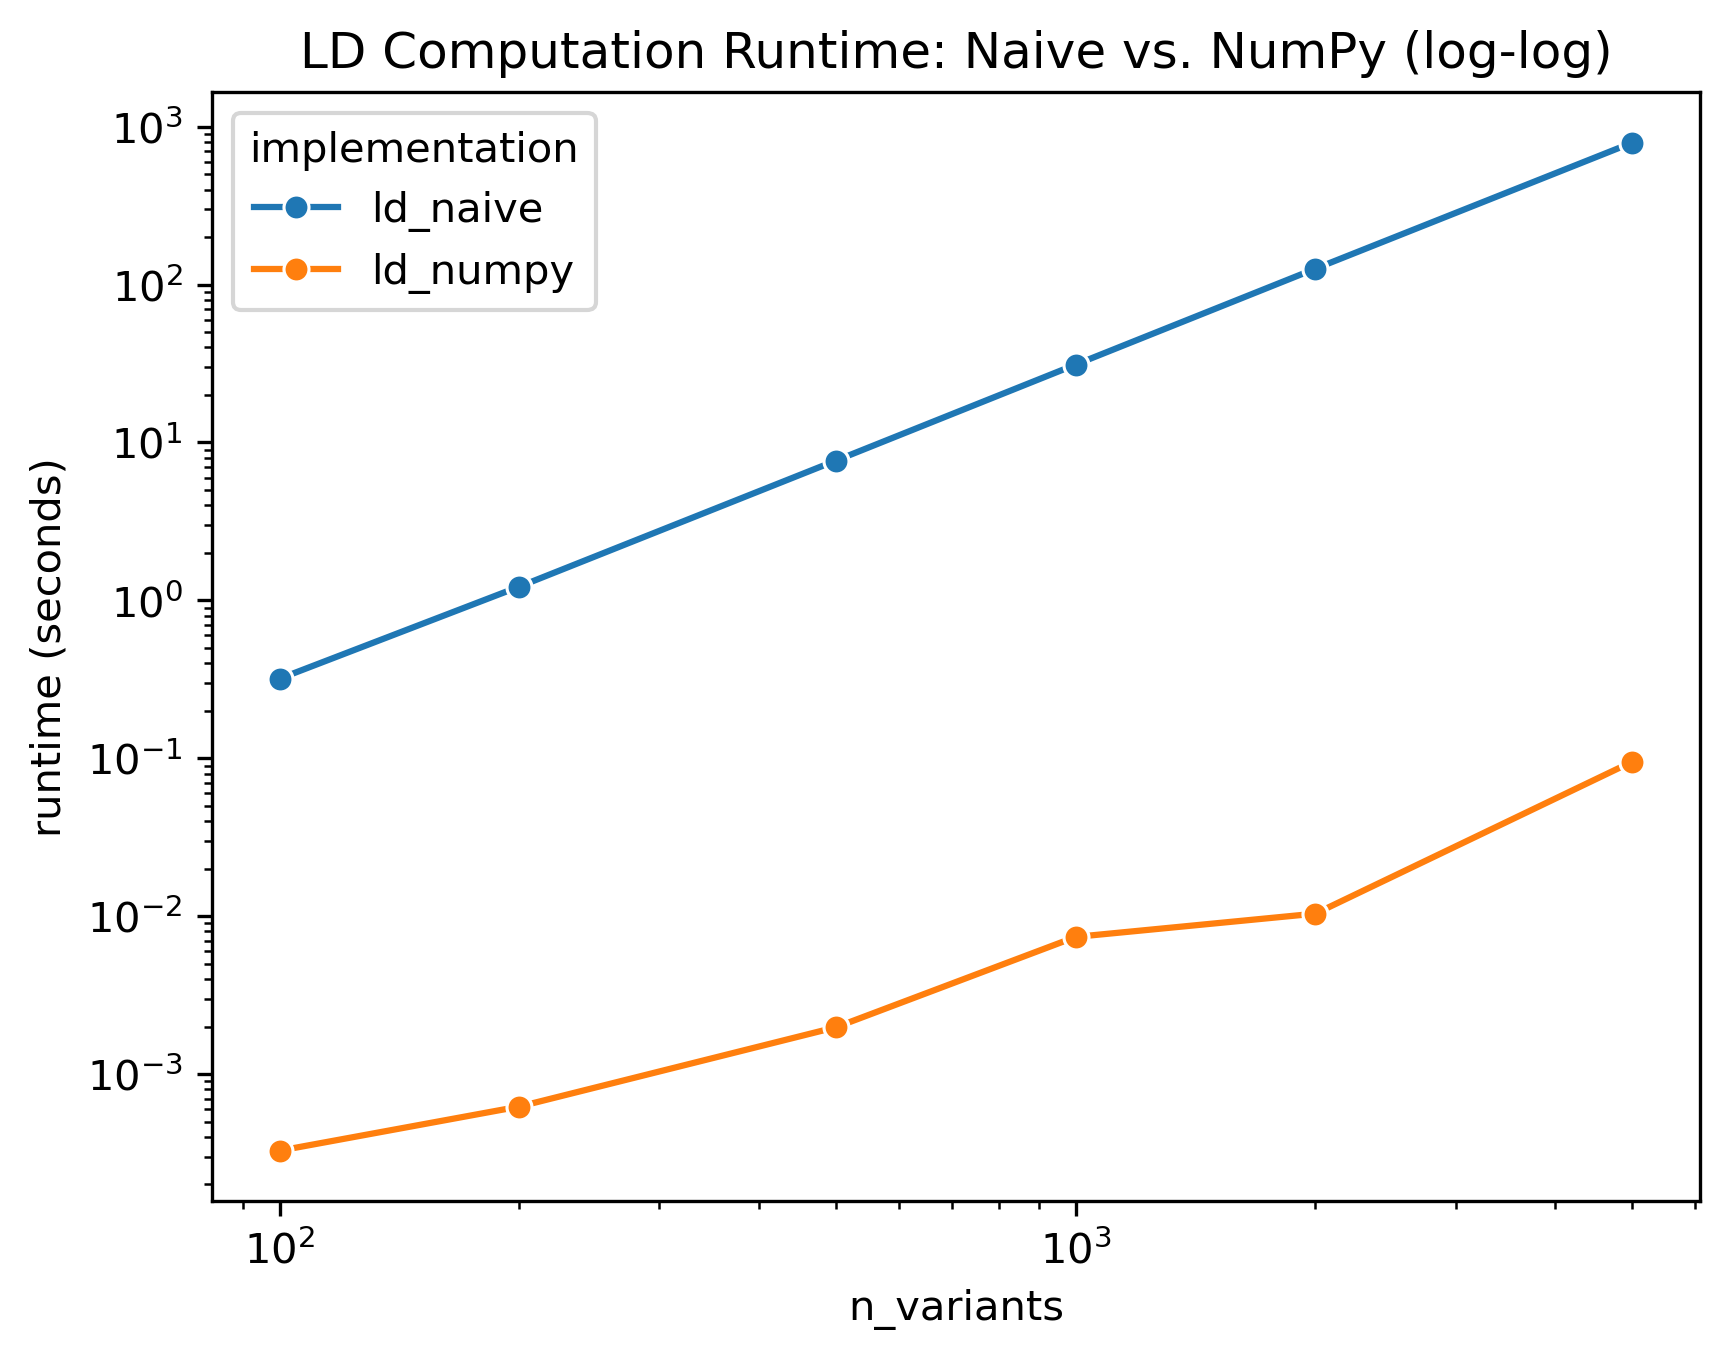
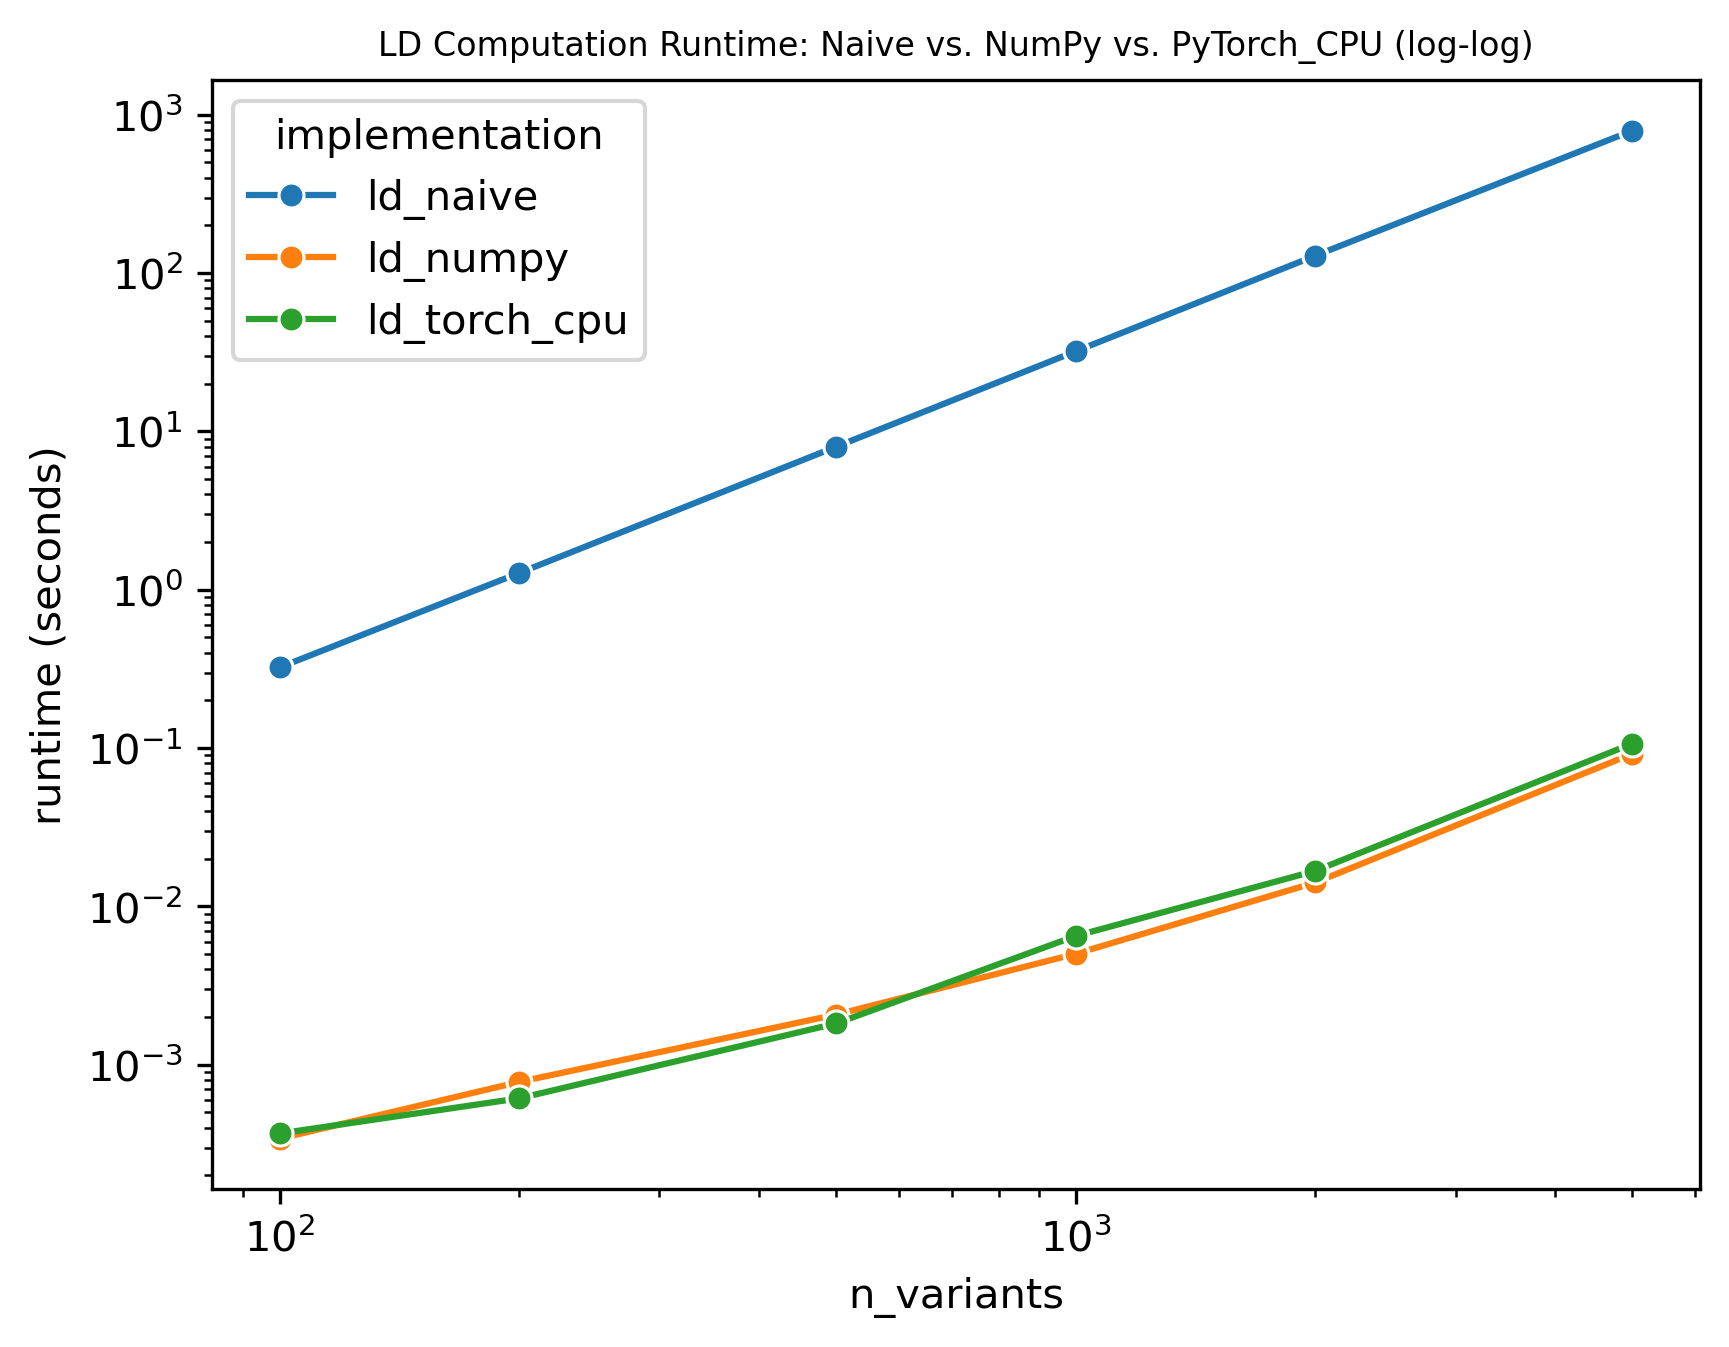
Created and profiled LD computation with pytorch CPU

diff --git a/src/ld_torch_cpu.py b/src/ld_torch_cpu.py
@@ -1,0 +1,24 @@
+import torch, numpy as np
+
+def ld_torch_computation(G):
+
+    with torch.no_grad():
+        G = torch.tensor(G, dtype=float)
+
+        means = torch.mean(G, dim = 1)
+        std = torch.std(G, dim = 1, correction = 1)
+        G_std = (G - means[:, None])/std[:, None]
+
+        ld_matrix = G_std @ G_std.T/(G.shape[1]-1)
+
+    return ld_matrix
+
+def ld_torch_cpu(G, num_threads = 8):
+    torch.set_num_threads(num_threads)
+    return ld_torch_computation(G)
+
+if __name__ == "__main__":
+    G = np.random.randint(0,3,size=(100,200))
+    ld_matrix = ld_torch_cpu(G)
+
+    print(ld_matrix[0,:20])

diff --git a/src/benchmark.py b/src/benchmark.py
@@ -1,6 +1,7 @@
 import time, numpy as np, pandas as pd, matplotlib.pyplot as plt, seaborn as sns
 from ld_numpy import ld_numpy
 from ld_naive import ld_naive
+from ld_torch_cpu import ld_torch_cpu, ld_torch_computation
 
 #Use sample size of ~633 matching 633 from EUR
 
@@ -50,17 +51,20 @@ def benchmark(ld_func, window_sizes, n_samples, n_reps = 3):
 if __name__ == "__main__":
     window_sizes = [100, 200, 500, 1000, 2000, 5000]
     n_samples = 600
+
+    df_torch_cpu = benchmark(ld_torch_cpu, window_sizes, n_samples)
     df_numpy = benchmark(ld_numpy, window_sizes, n_samples)
     df_naive = benchmark(ld_naive, window_sizes, n_samples, n_reps=1)
 
-    result_table = pd.concat([df_naive, df_numpy], ignore_index=True)
+
+    result_table = pd.concat([df_naive, df_numpy, df_torch_cpu], ignore_index=True)
 
     sns.lineplot(data=result_table, x="n_variants", y="elapsed_time", hue="implementation", marker='o')
     plt.xscale('log')
     plt.yscale('log')
     plt.ylabel('runtime (seconds)')
-    plt.title("LD Computation Runtime: Naive vs. NumPy (log-log)")
+    plt.title("LD Computation Runtime: Naive vs. NumPy vs. PyTorch_CPU (log-log)", fontdict={'size': 8})
 
     plt.savefig("figs/fig1_speedup_curves.png", dpi=300, bbox_inches='tight')
 
-    result_table.to_csv("results/numpy_vs_naive.csv")
+    result_table.to_csv("results/numpy_vs_naive_vs_torchcpu.csv")

diff --git a/tests/test_ld_torch_cpu.py b/tests/test_ld_torch_cpu.py
@@ -1,0 +1,8 @@
+import numpy as np, torch
+from src.ld_torch_cpu import ld_torch_cpu, ld_torch_computation
+
+def test_ld_torch_cpu_matches_corrcoef():
+    G = np.array([[0,1,2],[0,0,1],[1,1,2],[2,0,0],[1,2,1]], dtype=float)
+    R = ld_torch_cpu(G)
+    expected = np.corrcoef(G)
+    np.testing.assert_allclose(R, expected, atol=1e-6)